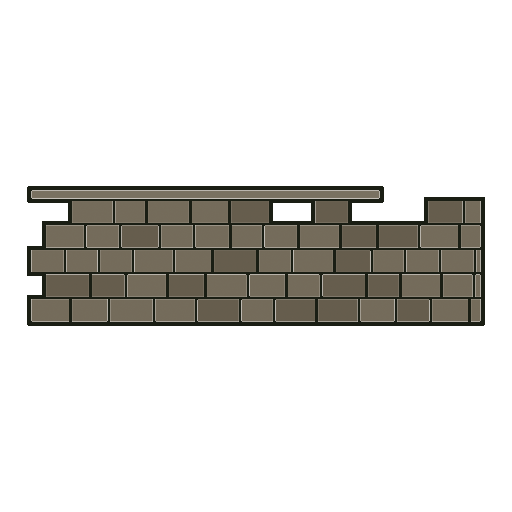
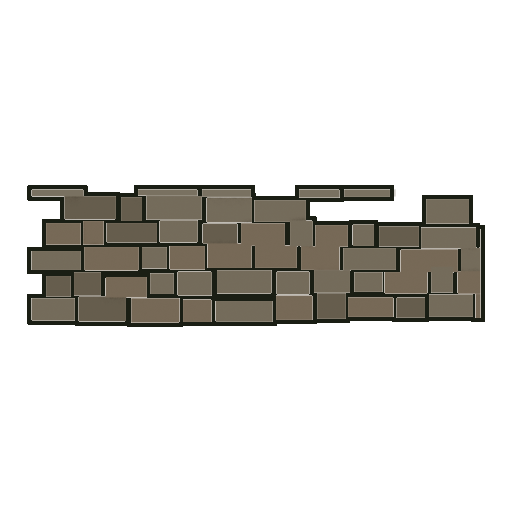
Lay the wall by hand, and drop two props nothing ever drew
Both came out of the same contact-sheet audit as the well.

STONEWALL_A is the generic `wall` cover on every map, so it is on screen
constantly, and it read as fired brick — a kiln and a bricklayer, in a delta
village. It was already randomising block WIDTHS and staggering courses; that
was not enough, because every block was the same HEIGHT sitting on a perfectly
level course with an even gap, and those horizontal lines are what the eye
actually reads. Laterite is cut wet, dries uneven and is laid by hand, so the
jitter has to be in Z and Y as well as X: courses sag across the wall, blocks
differ in height and depth so the face is not one flat plane, and the coping is
broken rather than a straight cap.

ROCK AND SANDBAG_ONE are gone. A sweep for props referenced nowhere in js/
found both — each rendered, toned, committed, and decoded at 512x512x4 = 1 MB
on every single load, and neither ever drawn. Two megabytes of a budget that
had 11.7 free. The manifest already drops entries whose PNG is missing (a rule
earned when a deleted `scrub_a` left a 404 behind), so removing the files and
the two GLB_NAME ids is the whole change; the source GLBs stay in art/props if
a use ever appears.

    props   29 -> 27
    prop MB 29 -> 27
    total   118.3 -> 116.3 of 130

No failed asset requests on load, SelfTest passes both sides.

Changed region(s): [[0.0625, 0.3438, 0.9688, 0.6562]]

diff --git a/tools/render_props.py b/tools/render_props.py
@@ -44,14 +44,20 @@ GLB_NAME = {
     '21d44b5b-efef-4abd-96ad-fc59e4ad373b': 'palm_b',
     '4c17decd-3087-4afe-9611-cfd92cca47cd': 'palm_c',
     '5a6e6186-ab59-4c81-a5e1-9beb5e1bb8e9': 'sandbags_row',
-    '5c18a372-e0fb-490f-aa90-8bdd04d7e92f': 'sandbag_one',
+
     '66cd7d94-abba-471e-8d8b-c8ad30aa5c70': 'palm_d',
     '8d6e4780-251c-49f6-9a49-b28ea28a03f8': 'hut_b',
     '96654c1e-dbc8-4bbc-a1c0-0dfacd8e9d93': 'sandbag_wall',
     '99bbd0c0-b60d-4923-bfbf-a7849e26766f': 'hut_c',
     'd4bcb445-6ef3-4aef-b39c-3bacd95f1b29': 'village_row',
-    'd80aaa87-23d8-4e45-83a2-5ffd22c36356': 'rock',
+
     # 88fb0209 is a 26 m row of seedlings — a whole scene, not a prop
+    #
+    # `rock` and `sandbag_one` were dropped after a sweep for props referenced
+    # nowhere in js/ found both: each was rendered, toned, committed, and
+    # decoded at 512x512x4 = 1 MB on every load, and neither was ever drawn.
+    # Two megabytes of a budget with 11.7 free. Re-add the id here if a use
+    # appears — the GLBs are still in art/props.
 }
 SRC = arg('--src', os.path.join(ROOT, 'art', 'props'))
 OUT = arg('--out', os.path.join(ROOT, 'assets', 'props'))
@@ -650,27 +656,55 @@ def build_dike():
 
 
 def build_stonewall():
-    """A low village wall of mud brick, chipped and gapped."""
+    """A low village wall of laterite block, slumped and gapped.
+
+    This is the generic `wall` cover on every map, so it is on screen constantly.
+    It was randomising block WIDTHS and staggering courses already — and still
+    read as fired brick, because every block was the same HEIGHT sitting on a
+    perfectly level course with an even gap, and those horizontal lines are what
+    the eye actually reads. Neat coursing means a kiln and a bricklayer.
+
+    Laterite is cut wet, dries uneven and is laid by hand: courses sag, blocks
+    vary in depth as well as width, and the faces sit at slightly different
+    heights. So the jitter has to be in Z and Y too, not just X, and the course
+    line itself has to wander.
+    """
     brick = _pmat('sw_brick', (0.150, 0.126, 0.086))
     dark = _pmat('sw_dark', (0.104, 0.086, 0.058))
+    warm = _pmat('sw_warm', (0.168, 0.118, 0.072))
     cap = _pmat('sw_cap', (0.170, 0.146, 0.100))
     import random as _r
+    import math as _m
     _r.seed(53)
     W, rows = 1.55, 5
     for r in range(rows):
-        z0 = r * 0.17
-        z1 = z0 + 0.155
-        off = 0.10 if r % 2 else 0.0          # staggered courses
+        base = r * 0.17
+        off = 0.10 if r % 2 else 0.0
         x = -W
         while x < W:
-            bw = 0.20 + _r.random() * 0.10
-            if r == rows - 1 and _r.random() < 0.34:
-                x += bw + 0.02                # the top course is broken
+            bw = 0.14 + _r.random() * 0.26          # much wider spread than 0.20-0.30
+            if r == rows - 1 and _r.random() < 0.40:
+                x += bw + 0.02                      # the top course is broken
                 continue
-            m = dark if _r.random() < 0.3 else brick
-            _box(m, x + off, -0.17, z0, min(W, x + off + bw), 0.17, z1)
-            x += bw + 0.018
-    _box(cap, -W, -0.19, rows * 0.17, W * 0.55, 0.19, rows * 0.17 + 0.055)
+            # the course SAGS across the wall and each block sits a little proud
+            # or low of its neighbours — this is the part that stops it coursing
+            sag = _m.sin((x / W) * 2.1 + r) * 0.016
+            jz = (_r.random() - 0.5) * 0.020
+            z0 = base + sag + jz
+            z1 = z0 + 0.135 + _r.random() * 0.045   # and blocks differ in height
+            d = 0.13 + _r.random() * 0.055          # ...and in depth, so the face
+            rr = _r.random()                        #    is not one flat plane
+            m = dark if rr < 0.26 else (warm if rr < 0.46 else brick)
+            _box(m, x + off, -d, z0, min(W, x + off + bw), d, z1)
+            x += bw + 0.012 + _r.random() * 0.022
+    # a broken cap, not a straight coping
+    xc = -W
+    while xc < W * 0.62:
+        cw = 0.22 + _r.random() * 0.20
+        if _r.random() > 0.24:
+            _box(cap, xc, -0.185, rows * 0.17 + (_r.random() - 0.5) * 0.02,
+                 min(W * 0.62, xc + cw), 0.185, rows * 0.17 + 0.05)
+        xc += cw + 0.03
 
 
 
